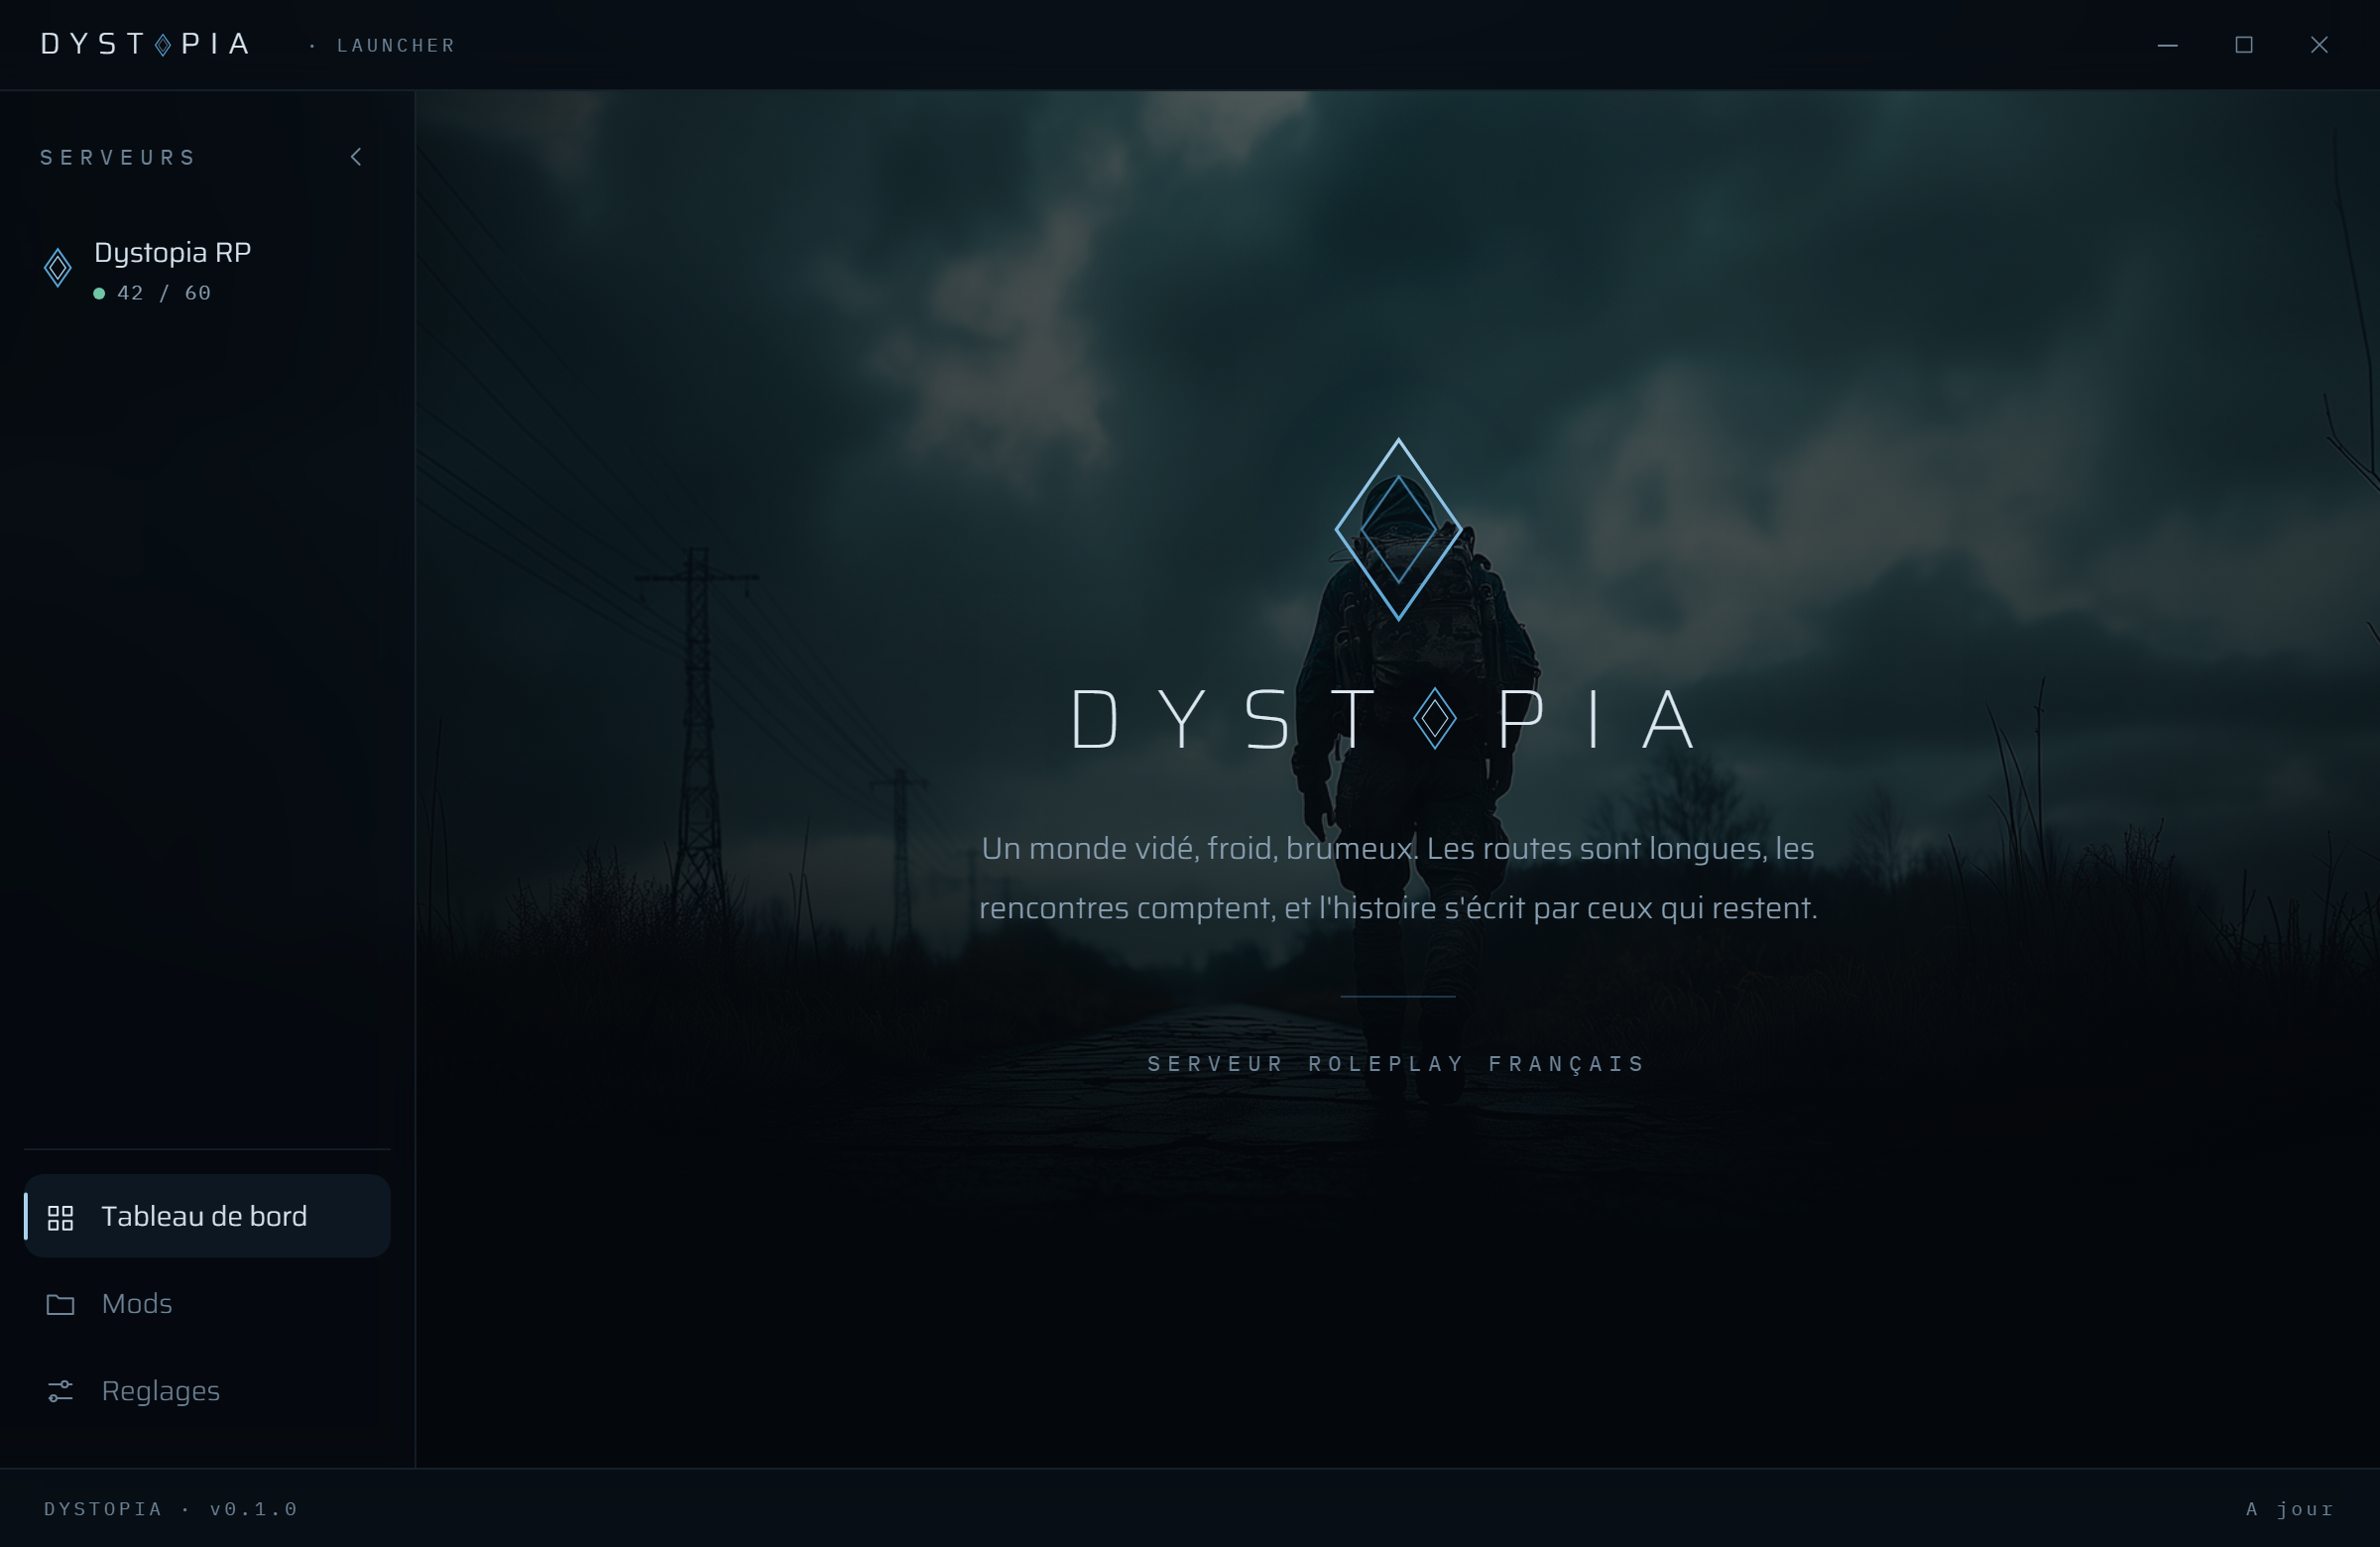
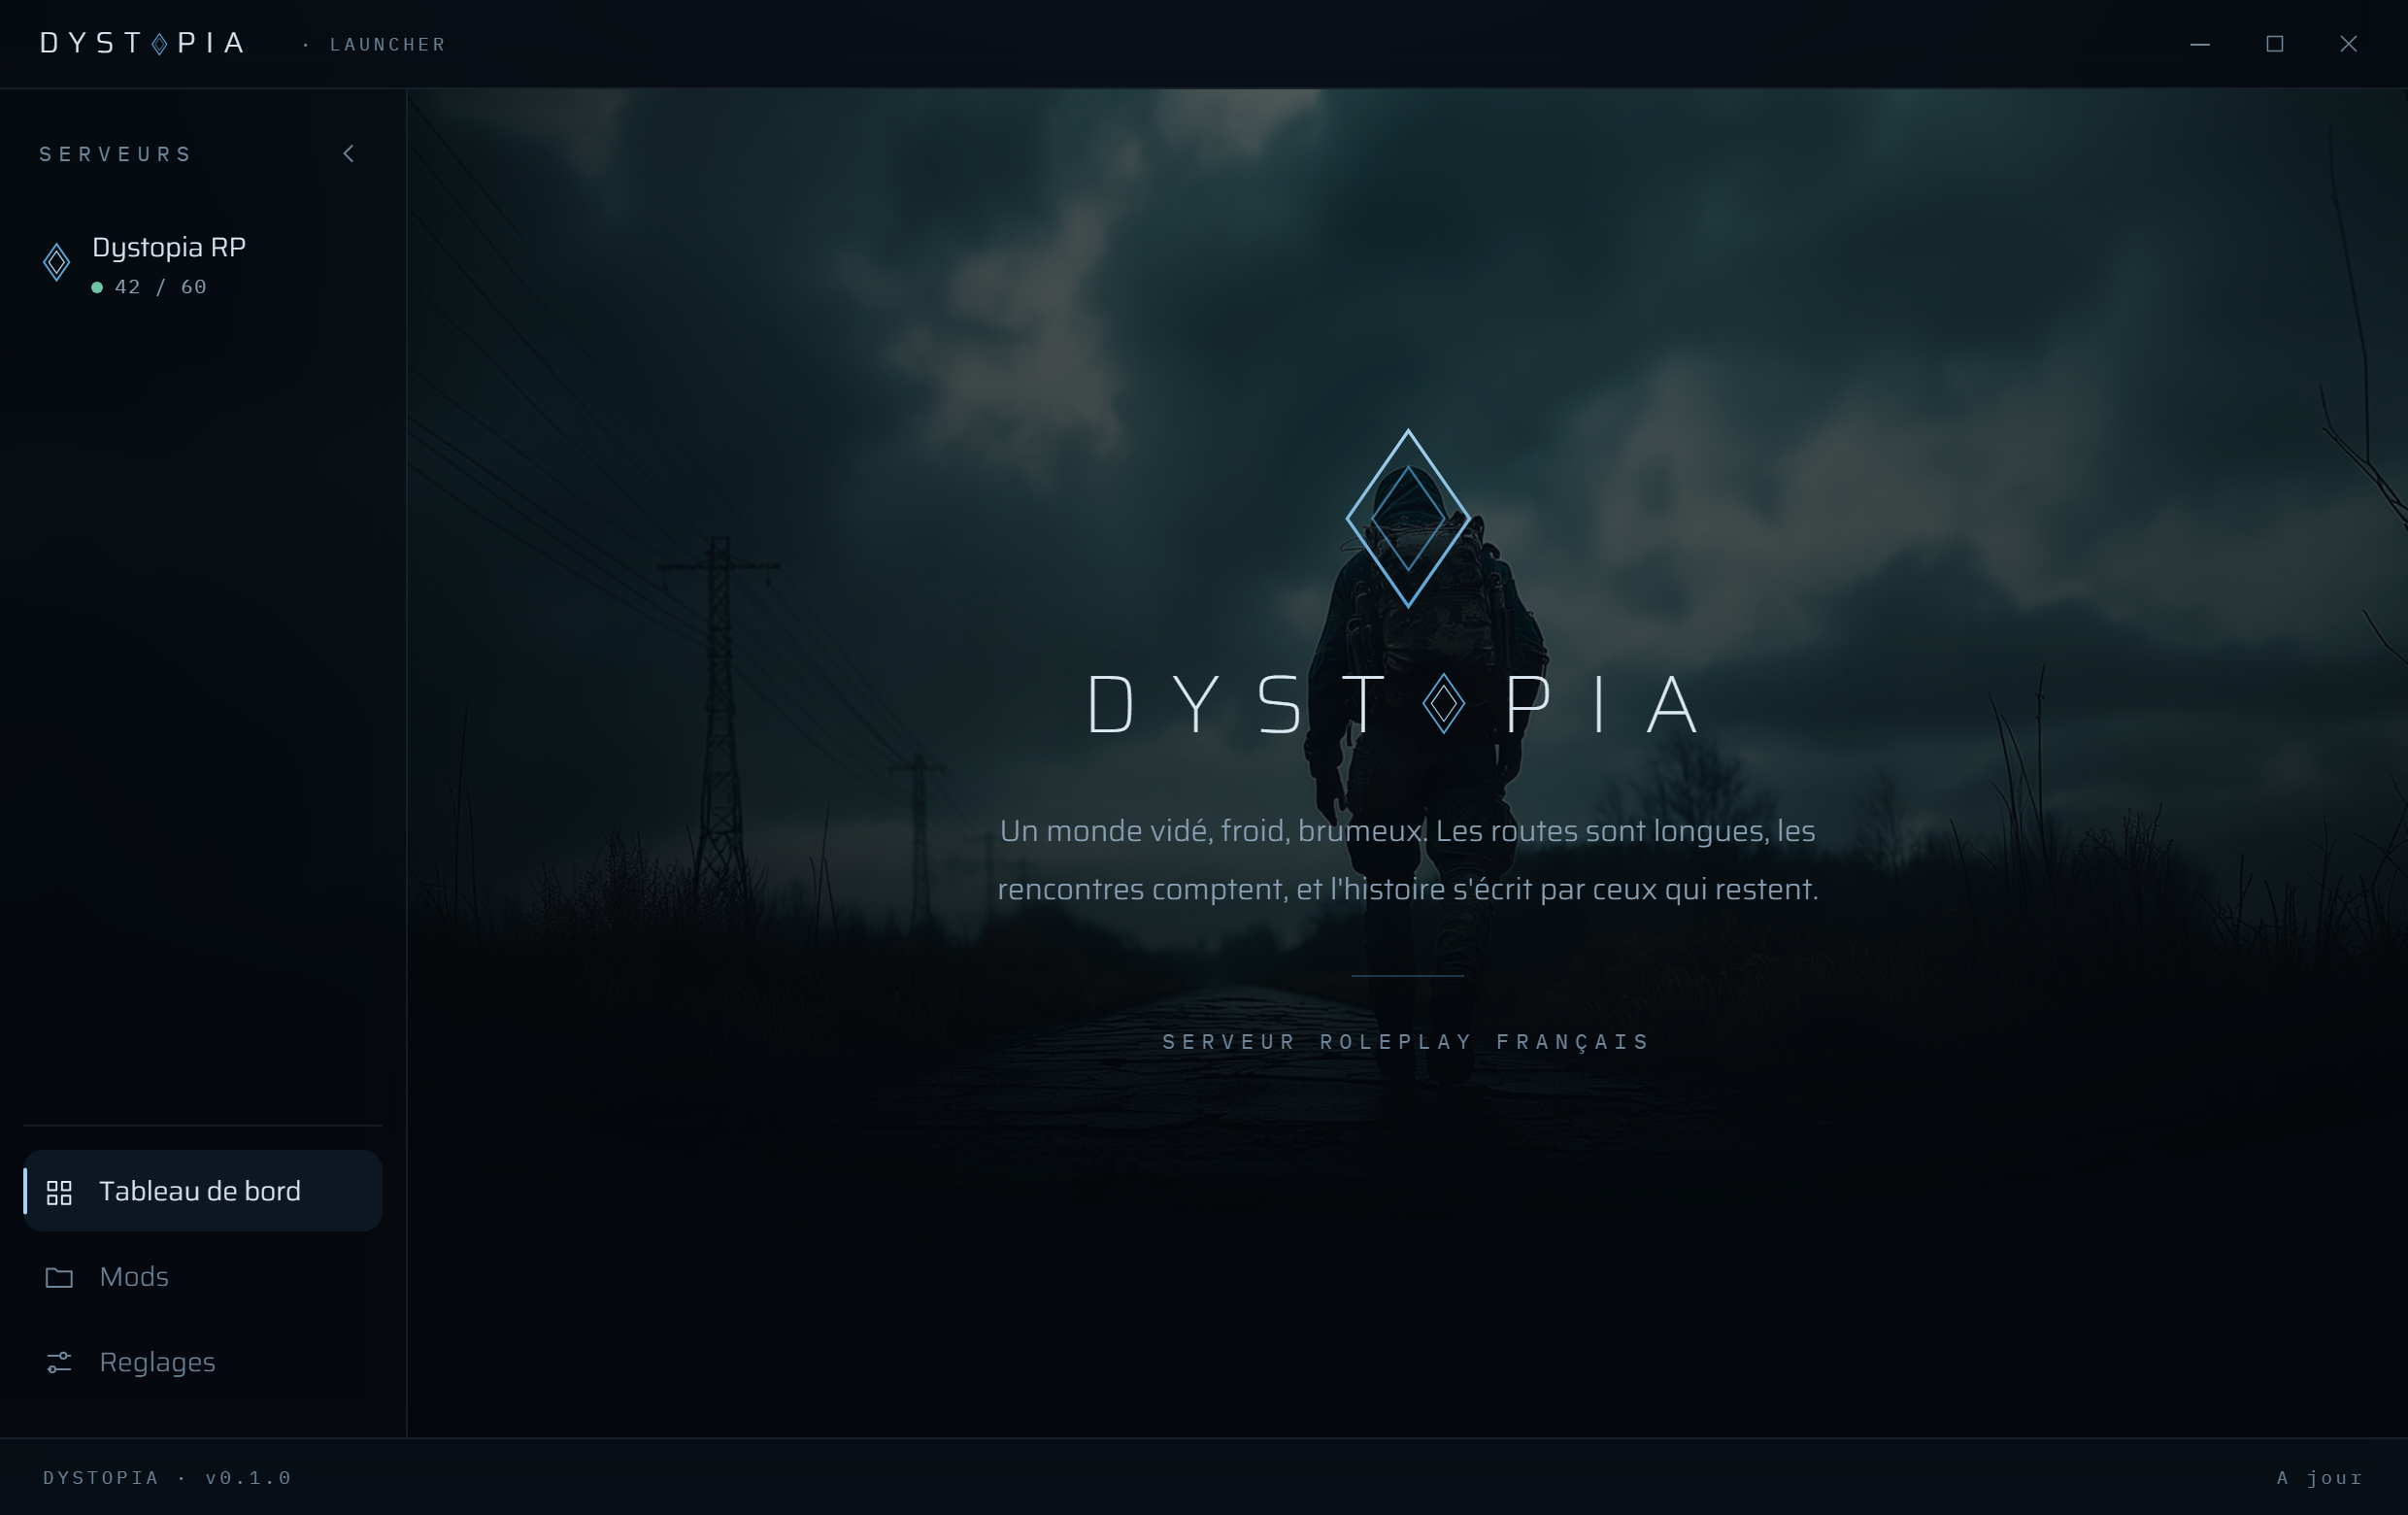
Captures a jour (affiche poster + page serveur) et vocabulaire 'connectés'

diff --git a/README.md b/README.md
@@ -31,7 +31,7 @@
 
 - **Se relier en un clic** : le launcher lance DayZ directement connecté au serveur Dystopia, avec les bons mods dans le bon ordre.
 - **Mods automatiques** : la liste des mods est lue en direct depuis le serveur. Les mods manquants se téléchargent via Steam d'un clic, avec barre de progression. Un mod abîmé se répare d'un clic.
-- **État du serveur en direct** : survivants reliés, carte, latence.
+- **État du serveur en direct** : joueurs connectés, carte, latence.
 - **Présence Discord** : vos amis voient que vous êtes sur Dystopia.
 - **Mises à jour automatiques** : le launcher se tient à jour tout seul, signé et vérifié.
 